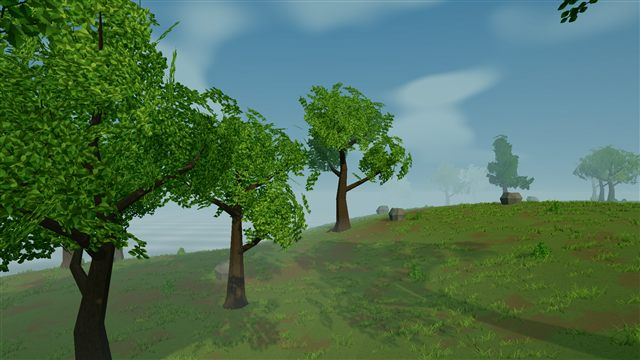
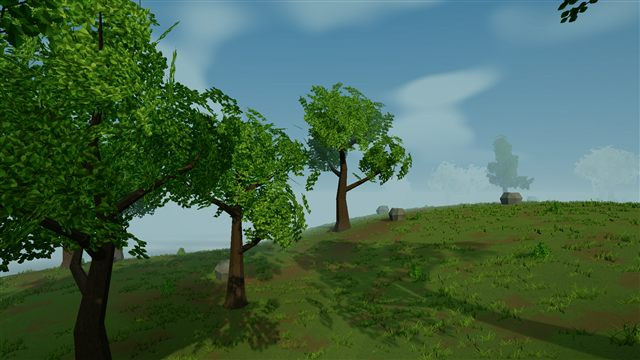
Publish lighting study 04 with canopy and shelter comparisons

diff --git a/index.html b/index.html
@@ -1,16 +1,16 @@
 <!doctype html>
-<html lang="en"><head><meta charset="utf-8"><meta name="viewport" content="width=device-width, initial-scale=1"><meta name="theme-color" content="#101a15"><meta name="description" content="Ten in-engine forest, coast, and shelter screenshots from the Survival prototype."><title>Survival - Environment Gallery</title><link rel="stylesheet" href="style.css?v=3"></head>
-<body><header class="wrap masthead"><a class="brand" href="index.html">SURVIVAL <span>DEVELOPMENT GALLERY</span></a><span class="edition">ENVIRONMENT STUDY 03</span></header>
-<main class="wrap"><section class="intro"><p class="eyebrow">FOREST / COAST / SHELTER</p><h1>A world in different light.</h1><p class="lead">Ten fresh in-engine views: branch-led tree forms, irregular rocks, finer ground cover, and textured timber in varied light.</p><p class="hint">Choose a view. Tap its image for the full-resolution screenshot. The canopy page also includes the earlier build for comparison.</p></section>
-<section class="gallery" aria-label="Environment screenshots"><a class="card" href="clearing.html"><img src="images/clearing-thumb.jpg?v=3" width="640" height="360" alt="The ordinary player camera with branching tree families, finer grass, and irregular rocks." fetchpriority="high"><div class="card-body"><span class="number">DAY / PLAYABLE VIEW</span><h2>Through the clearing</h2><p>The ordinary player camera with branching tree families, finer grass, and irregular rocks.</p><span class="open">Open view <span aria-hidden="true">&#8599;</span></span></div></a>
-<a class="card" href="canopy.html"><img src="images/canopy-thumb.jpg?v=3" width="640" height="360" alt="Branch-led crowns and darker canopy interiors. Earlier captures below show the progression." loading="lazy"><div class="card-body"><span class="number">DAY / CANOPY COMPARISON</span><h2>Under the branches</h2><p>Branch-led crowns and darker canopy interiors. Earlier captures below show the progression.</p><span class="open">Open view <span aria-hidden="true">&#8599;</span></span></div></a>
-<a class="card" href="grass.html"><img src="images/grass-thumb.jpg?v=3" width="640" height="360" alt="Shorter fine grass with occasional taller accents, sparse flowers, and coherent ground patches." loading="lazy"><div class="card-body"><span class="number">DAY / GROUND DETAIL</span><h2>At meadow height</h2><p>Shorter fine grass with occasional taller accents, sparse flowers, and coherent ground patches.</p><span class="open">Open view <span aria-hidden="true">&#8599;</span></span></div></a>
-<a class="card" href="coast.html"><img src="images/coast-thumb.jpg?v=3" width="640" height="360" alt="The shoreline and a simple ripple-lighting water study. Water remains visual only." loading="lazy"><div class="card-body"><span class="number">DAY / COAST</span><h2>Where the meadow meets water</h2><p>The shoreline and a simple ripple-lighting water study. Water remains visual only.</p><span class="open">Open view <span aria-hidden="true">&#8599;</span></span></div></a>
-<a class="card" href="ridge.html"><img src="images/ridge-thumb.jpg?v=3" width="640" height="360" alt="A wide coastal panorama with mixed tree silhouettes and distant mist." loading="lazy"><div class="card-body"><span class="number">DAY / LANDSCAPE</span><h2>Across the forest edge</h2><p>A wide coastal panorama with mixed tree silhouettes and distant mist.</p><span class="open">Open view <span aria-hidden="true">&#8599;</span></span></div></a>
-<a class="card" href="dawn.html"><img src="images/dawn-thumb.jpg?v=3" width="640" height="360" alt="A curated dawn preset: low warm sunlight, cooler ambient light, and heavier mist." loading="lazy"><div class="card-body"><span class="number">DAWN / LIGHTING STUDY</span><h2>Cool morning mist</h2><p>A curated dawn preset: low warm sunlight, cooler ambient light, and heavier mist.</p><span class="open">Open view <span aria-hidden="true">&#8599;</span></span></div></a>
-<a class="card" href="golden.html"><img src="images/golden-thumb.jpg?v=3" width="640" height="360" alt="A warm low-sun preset for checking foliage volume and long shadows." loading="lazy"><div class="card-body"><span class="number">GOLDEN HOUR / LIGHTING STUDY</span><h2>Late light in the meadow</h2><p>A warm low-sun preset for checking foliage volume and long shadows.</p><span class="open">Open view <span aria-hidden="true">&#8599;</span></span></div></a>
-<a class="card" href="overcast.html"><img src="images/overcast-thumb.jpg?v=3" width="640" height="360" alt="A softer cool-light preset that exposes silhouettes and ground detail without strong sunlight." loading="lazy"><div class="card-body"><span class="number">OVERCAST / LIGHTING STUDY</span><h2>A quieter forest path</h2><p>A softer cool-light preset that exposes silhouettes and ground detail without strong sunlight.</p><span class="open">Open view <span aria-hidden="true">&#8599;</span></span></div></a>
-<a class="card" href="shelter.html"><img src="images/shelter-thumb.jpg?v=3" width="640" height="360" alt="A staged fixture built from the existing foundation, floor, wall, doorway, and flat-roof pieces." loading="lazy"><div class="card-body"><span class="number">DAY / CONSTRUCTION STUDY</span><h2>A shelter in the clearing</h2><p>A staged fixture built from the existing foundation, floor, wall, doorway, and flat-roof pieces.</p><span class="open">Open view <span aria-hidden="true">&#8599;</span></span></div></a>
-<a class="card" href="dusk.html"><img src="images/dusk-thumb.jpg?v=3" width="640" height="360" alt="The same prototype pieces at dusk with a capture-only ember and point-light fixture. Campfire gameplay is not implemented." loading="lazy"><div class="card-body"><span class="number">DUSK / LOCAL LIGHT STUDY</span><h2>Warmth beside the shelter</h2><p>The same prototype pieces at dusk with a capture-only ember and point-light fixture. Campfire gameplay is not implemented.</p><span class="open">Open view <span aria-hidden="true">&#8599;</span></span></div></a></section>
+<html lang="en"><head><meta charset="utf-8"><meta name="viewport" content="width=device-width, initial-scale=1"><meta name="theme-color" content="#101a15"><meta name="description" content="Ten in-engine forest, coast, and shelter screenshots from the Survival prototype."><title>Survival - Environment Gallery</title><link rel="stylesheet" href="style.css?v=4"></head>
+<body><header class="wrap masthead"><a class="brand" href="index.html">SURVIVAL <span>DEVELOPMENT GALLERY</span></a><span class="edition">ENVIRONMENT STUDY 04</span></header>
+<main class="wrap"><section class="intro"><p class="eyebrow">FOREST / COAST / SHELTER</p><h1>A world in different light.</h1><p class="lead">Ten fresh in-engine views with clearer sunlight and shade, restrained foliage backlighting, and less foreground mist. The same procedural assets show the lighting changes.</p><p class="hint">Choose a view. Tap its image for the full-resolution screenshot. The canopy and shelter pages include views from before the lighting pass. Contact occlusion is off in these default views.</p></section>
+<section class="gallery" aria-label="Environment screenshots"><a class="card" href="clearing.html"><img src="images/clearing-thumb.jpg?v=4" width="640" height="360" alt="The ordinary player camera with branching tree families, finer grass, and irregular rocks." fetchpriority="high"><div class="card-body"><span class="number">DAY / PLAYABLE VIEW</span><h2>Through the clearing</h2><p>The ordinary player camera with branching tree families, finer grass, and irregular rocks.</p><span class="open">Open view <span aria-hidden="true">&#8599;</span></span></div></a>
+<a class="card" href="canopy.html"><img src="images/canopy-thumb.jpg?v=4" width="640" height="360" alt="Rebalanced sunlight, cool shade, and cached canopy skylight on the ground. Earlier captures below show the progression." loading="lazy"><div class="card-body"><span class="number">DAY / CANOPY COMPARISON</span><h2>Under the branches</h2><p>Rebalanced sunlight, cool shade, and cached canopy skylight on the ground. Earlier captures below show the progression.</p><span class="open">Open view <span aria-hidden="true">&#8599;</span></span></div></a>
+<a class="card" href="grass.html"><img src="images/grass-thumb.jpg?v=4" width="640" height="360" alt="Shorter fine grass with occasional taller accents, sparse flowers, and coherent ground patches." loading="lazy"><div class="card-body"><span class="number">DAY / GROUND DETAIL</span><h2>At meadow height</h2><p>Shorter fine grass with occasional taller accents, sparse flowers, and coherent ground patches.</p><span class="open">Open view <span aria-hidden="true">&#8599;</span></span></div></a>
+<a class="card" href="coast.html"><img src="images/coast-thumb.jpg?v=4" width="640" height="360" alt="The shoreline and a simple ripple-lighting water study. Water remains visual only." loading="lazy"><div class="card-body"><span class="number">DAY / COAST</span><h2>Where the meadow meets water</h2><p>The shoreline and a simple ripple-lighting water study. Water remains visual only.</p><span class="open">Open view <span aria-hidden="true">&#8599;</span></span></div></a>
+<a class="card" href="ridge.html"><img src="images/ridge-thumb.jpg?v=4" width="640" height="360" alt="A wide coastal panorama with mixed tree silhouettes and distant mist." loading="lazy"><div class="card-body"><span class="number">DAY / LANDSCAPE</span><h2>Across the forest edge</h2><p>A wide coastal panorama with mixed tree silhouettes and distant mist.</p><span class="open">Open view <span aria-hidden="true">&#8599;</span></span></div></a>
+<a class="card" href="dawn.html"><img src="images/dawn-thumb.jpg?v=4" width="640" height="360" alt="A curated dawn preset: low warm sunlight, cooler ambient light, and heavier mist." loading="lazy"><div class="card-body"><span class="number">DAWN / LIGHTING STUDY</span><h2>Cool morning mist</h2><p>A curated dawn preset: low warm sunlight, cooler ambient light, and heavier mist.</p><span class="open">Open view <span aria-hidden="true">&#8599;</span></span></div></a>
+<a class="card" href="golden.html"><img src="images/golden-thumb.jpg?v=4" width="640" height="360" alt="A warm low-sun preset for checking foliage volume and long shadows." loading="lazy"><div class="card-body"><span class="number">GOLDEN HOUR / LIGHTING STUDY</span><h2>Late light in the meadow</h2><p>A warm low-sun preset for checking foliage volume and long shadows.</p><span class="open">Open view <span aria-hidden="true">&#8599;</span></span></div></a>
+<a class="card" href="overcast.html"><img src="images/overcast-thumb.jpg?v=4" width="640" height="360" alt="A softer cool-light preset that exposes silhouettes and ground detail without strong sunlight." loading="lazy"><div class="card-body"><span class="number">OVERCAST / LIGHTING STUDY</span><h2>A quieter forest path</h2><p>A softer cool-light preset that exposes silhouettes and ground detail without strong sunlight.</p><span class="open">Open view <span aria-hidden="true">&#8599;</span></span></div></a>
+<a class="card" href="shelter.html"><img src="images/shelter-thumb.jpg?v=4" width="640" height="360" alt="A staged fixture built from the existing foundation, floor, wall, doorway, and flat-roof pieces." loading="lazy"><div class="card-body"><span class="number">DAY / CONSTRUCTION STUDY</span><h2>A shelter in the clearing</h2><p>A staged fixture built from the existing foundation, floor, wall, doorway, and flat-roof pieces.</p><span class="open">Open view <span aria-hidden="true">&#8599;</span></span></div></a>
+<a class="card" href="dusk.html"><img src="images/dusk-thumb.jpg?v=4" width="640" height="360" alt="The same prototype pieces at dusk with a capture-only ember and point-light fixture. Campfire gameplay is not implemented." loading="lazy"><div class="card-body"><span class="number">DUSK / LOCAL LIGHT STUDY</span><h2>Warmth beside the shelter</h2><p>The same prototype pieces at dusk with a capture-only ember and point-light fixture. Campfire gameplay is not implemented.</p><span class="open">Open view <span aria-hidden="true">&#8599;</span></span></div></a></section>
 <aside class="note"><strong>A work in progress.</strong> Original procedural assets, rendered in the game. Dawn, golden-hour, overcast, and dusk images use curated art presets; they do not demonstrate a day/night or weather cycle. Shelter scenes are staged from existing build pieces, and the dusk fire is a lighting fixture. This is a screenshot gallery, not a playable mobile game.</aside></main>
-<footer class="wrap footer">SURVIVAL <span>Environment study 03 - ten views</span></footer></body></html>
+<footer class="wrap footer">SURVIVAL <span>Environment study 04 - ten views</span></footer></body></html>

diff --git a/canopy.html b/canopy.html
@@ -1,7 +1,7 @@
 <!doctype html>
-<html lang="en"><head><meta charset="utf-8"><meta name="viewport" content="width=device-width, initial-scale=1"><meta name="theme-color" content="#101a15"><title>Under the branches - Survival Gallery</title><link rel="stylesheet" href="style.css?v=3"></head>
-<body><header class="wrap masthead"><a class="brand" href="index.html">SURVIVAL <span>DEVELOPMENT GALLERY</span></a><span class="edition">ENVIRONMENT STUDY 03</span></header>
-<main class="wrap"><section class="view-header"><a class="back" href="index.html">&#8592; All views</a><p class="eyebrow">DAY / CANOPY COMPARISON</p><h1>Under the branches</h1><p>Branch-led crowns and darker canopy interiors. Earlier captures below show the progression.</p></section>
-<figure class="image-frame"><a href="images/canopy-full.png?v=3"><img src="images/canopy.jpg?v=3" width="1280" height="720" alt="Branch-led crowns and darker canopy interiors. Earlier captures below show the progression." fetchpriority="high"></a><figcaption>Captured in Unity at 1920 &#215; 1080. Tap the image for the original PNG. Lighting variants are curated art presets, not a running day/night or weather system.</figcaption></figure><section class="view-header"><h2>Forest study 02</h2><p>The same camera before this tree, rock, and ground-cover pass.</p></section><figure class="image-frame"><a href="images/study02-canopy-full.png"><img src="images/study02-canopy.jpg" width="1280" height="720" alt="Study 02 canopy capture before the branch-led tree family changes" loading="lazy"></a><figcaption>Study 02. Tap for the original screenshot.</figcaption></figure><section class="view-header"><h2>Original procedural study</h2><p>An earlier build using the same camera position, not another current lighting preset.</p></section><figure class="image-frame"><a href="images/before-canopy-full.png"><img src="images/before-canopy.jpg" width="1280" height="720" alt="Earlier canopy study with repeated branch shapes and larger leaf patterns" loading="lazy"></a><figcaption>Original study. Tap for the original screenshot.</figcaption></figure>
+<html lang="en"><head><meta charset="utf-8"><meta name="viewport" content="width=device-width, initial-scale=1"><meta name="theme-color" content="#101a15"><title>Under the branches - Survival Gallery</title><link rel="stylesheet" href="style.css?v=4"></head>
+<body><header class="wrap masthead"><a class="brand" href="index.html">SURVIVAL <span>DEVELOPMENT GALLERY</span></a><span class="edition">ENVIRONMENT STUDY 04</span></header>
+<main class="wrap"><section class="view-header"><a class="back" href="index.html">&#8592; All views</a><p class="eyebrow">DAY / CANOPY COMPARISON</p><h1>Under the branches</h1><p>Rebalanced sunlight, cool shade, and cached canopy skylight on the ground. Earlier captures below show the progression.</p></section>
+<figure class="image-frame"><a href="images/canopy-full.png?v=4"><img src="images/canopy.jpg?v=4" width="1280" height="720" alt="Rebalanced sunlight, cool shade, and cached canopy skylight on the ground. Earlier captures below show the progression." fetchpriority="high"></a><figcaption>Captured in Unity at 1920 &#215; 1080. Tap the image for the original PNG. Lighting variants are curated art presets, not a running day/night or weather system.</figcaption></figure><section class="view-header"><h2>Before the lighting pass</h2><p>Study 03: the same camera and procedural assets before the sunlight, ambient shading, and fog changes. Wind can differ between captures.</p></section><figure class="image-frame"><a href="images/study03-canopy-full.png"><img src="images/study03-canopy.jpg" width="1280" height="720" alt="Study 03 before the lighting pass" loading="lazy"></a><figcaption>Study 03. Tap for the original screenshot.</figcaption></figure><section class="view-header"><h2>Forest study 02</h2><p>The same camera before the branch-led tree, rock, and ground-cover changes.</p></section><figure class="image-frame"><a href="images/study02-canopy-full.png"><img src="images/study02-canopy.jpg" width="1280" height="720" alt="Study 02 canopy capture before the branch-led tree family changes" loading="lazy"></a><figcaption>Study 02. Tap for the original screenshot.</figcaption></figure><section class="view-header"><h2>Original procedural study</h2><p>An earlier build using the same camera position, not another current lighting preset.</p></section><figure class="image-frame"><a href="images/before-canopy-full.png"><img src="images/before-canopy.jpg" width="1280" height="720" alt="Earlier canopy study with repeated branch shapes and larger leaf patterns" loading="lazy"></a><figcaption>Original study. Tap for the original screenshot.</figcaption></figure>
 <nav class="view-nav" aria-label="Screenshot navigation"><a href="clearing.html">&#8592; Through the clearing</a><a class="next" href="grass.html">At meadow height &#8594;</a></nav></main>
 <footer class="wrap footer">SURVIVAL <span>In-engine development captures</span></footer></body></html>

diff --git a/shelter.html b/shelter.html
@@ -1,7 +1,7 @@
 <!doctype html>
-<html lang="en"><head><meta charset="utf-8"><meta name="viewport" content="width=device-width, initial-scale=1"><meta name="theme-color" content="#101a15"><title>A shelter in the clearing - Survival Gallery</title><link rel="stylesheet" href="style.css?v=3"></head>
-<body><header class="wrap masthead"><a class="brand" href="index.html">SURVIVAL <span>DEVELOPMENT GALLERY</span></a><span class="edition">ENVIRONMENT STUDY 03</span></header>
+<html lang="en"><head><meta charset="utf-8"><meta name="viewport" content="width=device-width, initial-scale=1"><meta name="theme-color" content="#101a15"><title>A shelter in the clearing - Survival Gallery</title><link rel="stylesheet" href="style.css?v=4"></head>
+<body><header class="wrap masthead"><a class="brand" href="index.html">SURVIVAL <span>DEVELOPMENT GALLERY</span></a><span class="edition">ENVIRONMENT STUDY 04</span></header>
 <main class="wrap"><section class="view-header"><a class="back" href="index.html">&#8592; All views</a><p class="eyebrow">DAY / CONSTRUCTION STUDY</p><h1>A shelter in the clearing</h1><p>A staged fixture built from the existing foundation, floor, wall, doorway, and flat-roof pieces.</p></section>
-<figure class="image-frame"><a href="images/shelter-full.png?v=3"><img src="images/shelter.jpg?v=3" width="1280" height="720" alt="A staged fixture built from the existing foundation, floor, wall, doorway, and flat-roof pieces." fetchpriority="high"></a><figcaption>Captured in Unity at 1920 &#215; 1080. Tap the image for the original PNG. Lighting variants are curated art presets, not a running day/night or weather system.</figcaption></figure>
+<figure class="image-frame"><a href="images/shelter-full.png?v=4"><img src="images/shelter.jpg?v=4" width="1280" height="720" alt="A staged fixture built from the existing foundation, floor, wall, doorway, and flat-roof pieces." fetchpriority="high"></a><figcaption>Captured in Unity at 1920 &#215; 1080. Tap the image for the original PNG. Lighting variants are curated art presets, not a running day/night or weather system.</figcaption></figure><section class="view-header"><h2>Before the lighting pass</h2><p>Study 03: the same camera and procedural assets before the sunlight, ambient shading, and fog changes. Wind can differ between captures.</p></section><figure class="image-frame"><a href="images/study03-shelter-full.png"><img src="images/study03-shelter.jpg" width="1280" height="720" alt="Study 03 before the lighting pass" loading="lazy"></a><figcaption>Study 03. Tap for the original screenshot.</figcaption></figure>
 <nav class="view-nav" aria-label="Screenshot navigation"><a href="overcast.html">&#8592; A quieter forest path</a><a class="next" href="dusk.html">Warmth beside the shelter &#8594;</a></nav></main>
 <footer class="wrap footer">SURVIVAL <span>In-engine development captures</span></footer></body></html>

diff --git a/dusk.html b/dusk.html
@@ -1,7 +1,7 @@
 <!doctype html>
-<html lang="en"><head><meta charset="utf-8"><meta name="viewport" content="width=device-width, initial-scale=1"><meta name="theme-color" content="#101a15"><title>Warmth beside the shelter - Survival Gallery</title><link rel="stylesheet" href="style.css?v=3"></head>
-<body><header class="wrap masthead"><a class="brand" href="index.html">SURVIVAL <span>DEVELOPMENT GALLERY</span></a><span class="edition">ENVIRONMENT STUDY 03</span></header>
+<html lang="en"><head><meta charset="utf-8"><meta name="viewport" content="width=device-width, initial-scale=1"><meta name="theme-color" content="#101a15"><title>Warmth beside the shelter - Survival Gallery</title><link rel="stylesheet" href="style.css?v=4"></head>
+<body><header class="wrap masthead"><a class="brand" href="index.html">SURVIVAL <span>DEVELOPMENT GALLERY</span></a><span class="edition">ENVIRONMENT STUDY 04</span></header>
 <main class="wrap"><section class="view-header"><a class="back" href="index.html">&#8592; All views</a><p class="eyebrow">DUSK / LOCAL LIGHT STUDY</p><h1>Warmth beside the shelter</h1><p>The same prototype pieces at dusk with a capture-only ember and point-light fixture. Campfire gameplay is not implemented.</p></section>
-<figure class="image-frame"><a href="images/dusk-full.png?v=3"><img src="images/dusk.jpg?v=3" width="1280" height="720" alt="The same prototype pieces at dusk with a capture-only ember and point-light fixture. Campfire gameplay is not implemented." fetchpriority="high"></a><figcaption>Captured in Unity at 1920 &#215; 1080. Tap the image for the original PNG. Lighting variants are curated art presets, not a running day/night or weather system.</figcaption></figure>
+<figure class="image-frame"><a href="images/dusk-full.png?v=4"><img src="images/dusk.jpg?v=4" width="1280" height="720" alt="The same prototype pieces at dusk with a capture-only ember and point-light fixture. Campfire gameplay is not implemented." fetchpriority="high"></a><figcaption>Captured in Unity at 1920 &#215; 1080. Tap the image for the original PNG. Lighting variants are curated art presets, not a running day/night or weather system.</figcaption></figure>
 <nav class="view-nav" aria-label="Screenshot navigation"><a href="shelter.html">&#8592; A shelter in the clearing</a><a class="next" href="clearing.html">Through the clearing &#8594;</a></nav></main>
 <footer class="wrap footer">SURVIVAL <span>In-engine development captures</span></footer></body></html>

diff --git a/overcast.html b/overcast.html
@@ -1,7 +1,7 @@
 <!doctype html>
-<html lang="en"><head><meta charset="utf-8"><meta name="viewport" content="width=device-width, initial-scale=1"><meta name="theme-color" content="#101a15"><title>A quieter forest path - Survival Gallery</title><link rel="stylesheet" href="style.css?v=3"></head>
-<body><header class="wrap masthead"><a class="brand" href="index.html">SURVIVAL <span>DEVELOPMENT GALLERY</span></a><span class="edition">ENVIRONMENT STUDY 03</span></header>
+<html lang="en"><head><meta charset="utf-8"><meta name="viewport" content="width=device-width, initial-scale=1"><meta name="theme-color" content="#101a15"><title>A quieter forest path - Survival Gallery</title><link rel="stylesheet" href="style.css?v=4"></head>
+<body><header class="wrap masthead"><a class="brand" href="index.html">SURVIVAL <span>DEVELOPMENT GALLERY</span></a><span class="edition">ENVIRONMENT STUDY 04</span></header>
 <main class="wrap"><section class="view-header"><a class="back" href="index.html">&#8592; All views</a><p class="eyebrow">OVERCAST / LIGHTING STUDY</p><h1>A quieter forest path</h1><p>A softer cool-light preset that exposes silhouettes and ground detail without strong sunlight.</p></section>
-<figure class="image-frame"><a href="images/overcast-full.png?v=3"><img src="images/overcast.jpg?v=3" width="1280" height="720" alt="A softer cool-light preset that exposes silhouettes and ground detail without strong sunlight." fetchpriority="high"></a><figcaption>Captured in Unity at 1920 &#215; 1080. Tap the image for the original PNG. Lighting variants are curated art presets, not a running day/night or weather system.</figcaption></figure>
+<figure class="image-frame"><a href="images/overcast-full.png?v=4"><img src="images/overcast.jpg?v=4" width="1280" height="720" alt="A softer cool-light preset that exposes silhouettes and ground detail without strong sunlight." fetchpriority="high"></a><figcaption>Captured in Unity at 1920 &#215; 1080. Tap the image for the original PNG. Lighting variants are curated art presets, not a running day/night or weather system.</figcaption></figure>
 <nav class="view-nav" aria-label="Screenshot navigation"><a href="golden.html">&#8592; Late light in the meadow</a><a class="next" href="shelter.html">A shelter in the clearing &#8594;</a></nav></main>
 <footer class="wrap footer">SURVIVAL <span>In-engine development captures</span></footer></body></html>

diff --git a/clearing.html b/clearing.html
@@ -1,7 +1,7 @@
 <!doctype html>
-<html lang="en"><head><meta charset="utf-8"><meta name="viewport" content="width=device-width, initial-scale=1"><meta name="theme-color" content="#101a15"><title>Through the clearing - Survival Gallery</title><link rel="stylesheet" href="style.css?v=3"></head>
-<body><header class="wrap masthead"><a class="brand" href="index.html">SURVIVAL <span>DEVELOPMENT GALLERY</span></a><span class="edition">ENVIRONMENT STUDY 03</span></header>
+<html lang="en"><head><meta charset="utf-8"><meta name="viewport" content="width=device-width, initial-scale=1"><meta name="theme-color" content="#101a15"><title>Through the clearing - Survival Gallery</title><link rel="stylesheet" href="style.css?v=4"></head>
+<body><header class="wrap masthead"><a class="brand" href="index.html">SURVIVAL <span>DEVELOPMENT GALLERY</span></a><span class="edition">ENVIRONMENT STUDY 04</span></header>
 <main class="wrap"><section class="view-header"><a class="back" href="index.html">&#8592; All views</a><p class="eyebrow">DAY / PLAYABLE VIEW</p><h1>Through the clearing</h1><p>The ordinary player camera with branching tree families, finer grass, and irregular rocks.</p></section>
-<figure class="image-frame"><a href="images/clearing-full.png?v=3"><img src="images/clearing.jpg?v=3" width="1280" height="720" alt="The ordinary player camera with branching tree families, finer grass, and irregular rocks." fetchpriority="high"></a><figcaption>Captured in Unity at 1920 &#215; 1080. Tap the image for the original PNG. Lighting variants are curated art presets, not a running day/night or weather system.</figcaption></figure>
+<figure class="image-frame"><a href="images/clearing-full.png?v=4"><img src="images/clearing.jpg?v=4" width="1280" height="720" alt="The ordinary player camera with branching tree families, finer grass, and irregular rocks." fetchpriority="high"></a><figcaption>Captured in Unity at 1920 &#215; 1080. Tap the image for the original PNG. Lighting variants are curated art presets, not a running day/night or weather system.</figcaption></figure>
 <nav class="view-nav" aria-label="Screenshot navigation"><a href="dusk.html">&#8592; Warmth beside the shelter</a><a class="next" href="canopy.html">Under the branches &#8594;</a></nav></main>
 <footer class="wrap footer">SURVIVAL <span>In-engine development captures</span></footer></body></html>

diff --git a/grass.html b/grass.html
@@ -1,7 +1,7 @@
 <!doctype html>
-<html lang="en"><head><meta charset="utf-8"><meta name="viewport" content="width=device-width, initial-scale=1"><meta name="theme-color" content="#101a15"><title>At meadow height - Survival Gallery</title><link rel="stylesheet" href="style.css?v=3"></head>
-<body><header class="wrap masthead"><a class="brand" href="index.html">SURVIVAL <span>DEVELOPMENT GALLERY</span></a><span class="edition">ENVIRONMENT STUDY 03</span></header>
+<html lang="en"><head><meta charset="utf-8"><meta name="viewport" content="width=device-width, initial-scale=1"><meta name="theme-color" content="#101a15"><title>At meadow height - Survival Gallery</title><link rel="stylesheet" href="style.css?v=4"></head>
+<body><header class="wrap masthead"><a class="brand" href="index.html">SURVIVAL <span>DEVELOPMENT GALLERY</span></a><span class="edition">ENVIRONMENT STUDY 04</span></header>
 <main class="wrap"><section class="view-header"><a class="back" href="index.html">&#8592; All views</a><p class="eyebrow">DAY / GROUND DETAIL</p><h1>At meadow height</h1><p>Shorter fine grass with occasional taller accents, sparse flowers, and coherent ground patches.</p></section>
-<figure class="image-frame"><a href="images/grass-full.png?v=3"><img src="images/grass.jpg?v=3" width="1280" height="720" alt="Shorter fine grass with occasional taller accents, sparse flowers, and coherent ground patches." fetchpriority="high"></a><figcaption>Captured in Unity at 1920 &#215; 1080. Tap the image for the original PNG. Lighting variants are curated art presets, not a running day/night or weather system.</figcaption></figure>
+<figure class="image-frame"><a href="images/grass-full.png?v=4"><img src="images/grass.jpg?v=4" width="1280" height="720" alt="Shorter fine grass with occasional taller accents, sparse flowers, and coherent ground patches." fetchpriority="high"></a><figcaption>Captured in Unity at 1920 &#215; 1080. Tap the image for the original PNG. Lighting variants are curated art presets, not a running day/night or weather system.</figcaption></figure>
 <nav class="view-nav" aria-label="Screenshot navigation"><a href="canopy.html">&#8592; Under the branches</a><a class="next" href="coast.html">Where the meadow meets water &#8594;</a></nav></main>
 <footer class="wrap footer">SURVIVAL <span>In-engine development captures</span></footer></body></html>

diff --git a/coast.html b/coast.html
@@ -1,7 +1,7 @@
 <!doctype html>
-<html lang="en"><head><meta charset="utf-8"><meta name="viewport" content="width=device-width, initial-scale=1"><meta name="theme-color" content="#101a15"><title>Where the meadow meets water - Survival Gallery</title><link rel="stylesheet" href="style.css?v=3"></head>
-<body><header class="wrap masthead"><a class="brand" href="index.html">SURVIVAL <span>DEVELOPMENT GALLERY</span></a><span class="edition">ENVIRONMENT STUDY 03</span></header>
+<html lang="en"><head><meta charset="utf-8"><meta name="viewport" content="width=device-width, initial-scale=1"><meta name="theme-color" content="#101a15"><title>Where the meadow meets water - Survival Gallery</title><link rel="stylesheet" href="style.css?v=4"></head>
+<body><header class="wrap masthead"><a class="brand" href="index.html">SURVIVAL <span>DEVELOPMENT GALLERY</span></a><span class="edition">ENVIRONMENT STUDY 04</span></header>
 <main class="wrap"><section class="view-header"><a class="back" href="index.html">&#8592; All views</a><p class="eyebrow">DAY / COAST</p><h1>Where the meadow meets water</h1><p>The shoreline and a simple ripple-lighting water study. Water remains visual only.</p></section>
-<figure class="image-frame"><a href="images/coast-full.png?v=3"><img src="images/coast.jpg?v=3" width="1280" height="720" alt="The shoreline and a simple ripple-lighting water study. Water remains visual only." fetchpriority="high"></a><figcaption>Captured in Unity at 1920 &#215; 1080. Tap the image for the original PNG. Lighting variants are curated art presets, not a running day/night or weather system.</figcaption></figure>
+<figure class="image-frame"><a href="images/coast-full.png?v=4"><img src="images/coast.jpg?v=4" width="1280" height="720" alt="The shoreline and a simple ripple-lighting water study. Water remains visual only." fetchpriority="high"></a><figcaption>Captured in Unity at 1920 &#215; 1080. Tap the image for the original PNG. Lighting variants are curated art presets, not a running day/night or weather system.</figcaption></figure>
 <nav class="view-nav" aria-label="Screenshot navigation"><a href="grass.html">&#8592; At meadow height</a><a class="next" href="ridge.html">Across the forest edge &#8594;</a></nav></main>
 <footer class="wrap footer">SURVIVAL <span>In-engine development captures</span></footer></body></html>

diff --git a/dawn.html b/dawn.html
@@ -1,7 +1,7 @@
 <!doctype html>
-<html lang="en"><head><meta charset="utf-8"><meta name="viewport" content="width=device-width, initial-scale=1"><meta name="theme-color" content="#101a15"><title>Cool morning mist - Survival Gallery</title><link rel="stylesheet" href="style.css?v=3"></head>
-<body><header class="wrap masthead"><a class="brand" href="index.html">SURVIVAL <span>DEVELOPMENT GALLERY</span></a><span class="edition">ENVIRONMENT STUDY 03</span></header>
+<html lang="en"><head><meta charset="utf-8"><meta name="viewport" content="width=device-width, initial-scale=1"><meta name="theme-color" content="#101a15"><title>Cool morning mist - Survival Gallery</title><link rel="stylesheet" href="style.css?v=4"></head>
+<body><header class="wrap masthead"><a class="brand" href="index.html">SURVIVAL <span>DEVELOPMENT GALLERY</span></a><span class="edition">ENVIRONMENT STUDY 04</span></header>
 <main class="wrap"><section class="view-header"><a class="back" href="index.html">&#8592; All views</a><p class="eyebrow">DAWN / LIGHTING STUDY</p><h1>Cool morning mist</h1><p>A curated dawn preset: low warm sunlight, cooler ambient light, and heavier mist.</p></section>
-<figure class="image-frame"><a href="images/dawn-full.png?v=3"><img src="images/dawn.jpg?v=3" width="1280" height="720" alt="A curated dawn preset: low warm sunlight, cooler ambient light, and heavier mist." fetchpriority="high"></a><figcaption>Captured in Unity at 1920 &#215; 1080. Tap the image for the original PNG. Lighting variants are curated art presets, not a running day/night or weather system.</figcaption></figure>
+<figure class="image-frame"><a href="images/dawn-full.png?v=4"><img src="images/dawn.jpg?v=4" width="1280" height="720" alt="A curated dawn preset: low warm sunlight, cooler ambient light, and heavier mist." fetchpriority="high"></a><figcaption>Captured in Unity at 1920 &#215; 1080. Tap the image for the original PNG. Lighting variants are curated art presets, not a running day/night or weather system.</figcaption></figure>
 <nav class="view-nav" aria-label="Screenshot navigation"><a href="ridge.html">&#8592; Across the forest edge</a><a class="next" href="golden.html">Late light in the meadow &#8594;</a></nav></main>
 <footer class="wrap footer">SURVIVAL <span>In-engine development captures</span></footer></body></html>

diff --git a/golden.html b/golden.html
@@ -1,7 +1,7 @@
 <!doctype html>
-<html lang="en"><head><meta charset="utf-8"><meta name="viewport" content="width=device-width, initial-scale=1"><meta name="theme-color" content="#101a15"><title>Late light in the meadow - Survival Gallery</title><link rel="stylesheet" href="style.css?v=3"></head>
-<body><header class="wrap masthead"><a class="brand" href="index.html">SURVIVAL <span>DEVELOPMENT GALLERY</span></a><span class="edition">ENVIRONMENT STUDY 03</span></header>
+<html lang="en"><head><meta charset="utf-8"><meta name="viewport" content="width=device-width, initial-scale=1"><meta name="theme-color" content="#101a15"><title>Late light in the meadow - Survival Gallery</title><link rel="stylesheet" href="style.css?v=4"></head>
+<body><header class="wrap masthead"><a class="brand" href="index.html">SURVIVAL <span>DEVELOPMENT GALLERY</span></a><span class="edition">ENVIRONMENT STUDY 04</span></header>
 <main class="wrap"><section class="view-header"><a class="back" href="index.html">&#8592; All views</a><p class="eyebrow">GOLDEN HOUR / LIGHTING STUDY</p><h1>Late light in the meadow</h1><p>A warm low-sun preset for checking foliage volume and long shadows.</p></section>
-<figure class="image-frame"><a href="images/golden-full.png?v=3"><img src="images/golden.jpg?v=3" width="1280" height="720" alt="A warm low-sun preset for checking foliage volume and long shadows." fetchpriority="high"></a><figcaption>Captured in Unity at 1920 &#215; 1080. Tap the image for the original PNG. Lighting variants are curated art presets, not a running day/night or weather system.</figcaption></figure>
+<figure class="image-frame"><a href="images/golden-full.png?v=4"><img src="images/golden.jpg?v=4" width="1280" height="720" alt="A warm low-sun preset for checking foliage volume and long shadows." fetchpriority="high"></a><figcaption>Captured in Unity at 1920 &#215; 1080. Tap the image for the original PNG. Lighting variants are curated art presets, not a running day/night or weather system.</figcaption></figure>
 <nav class="view-nav" aria-label="Screenshot navigation"><a href="dawn.html">&#8592; Cool morning mist</a><a class="next" href="overcast.html">A quieter forest path &#8594;</a></nav></main>
 <footer class="wrap footer">SURVIVAL <span>In-engine development captures</span></footer></body></html>

diff --git a/ridge.html b/ridge.html
@@ -1,7 +1,7 @@
 <!doctype html>
-<html lang="en"><head><meta charset="utf-8"><meta name="viewport" content="width=device-width, initial-scale=1"><meta name="theme-color" content="#101a15"><title>Across the forest edge - Survival Gallery</title><link rel="stylesheet" href="style.css?v=3"></head>
-<body><header class="wrap masthead"><a class="brand" href="index.html">SURVIVAL <span>DEVELOPMENT GALLERY</span></a><span class="edition">ENVIRONMENT STUDY 03</span></header>
+<html lang="en"><head><meta charset="utf-8"><meta name="viewport" content="width=device-width, initial-scale=1"><meta name="theme-color" content="#101a15"><title>Across the forest edge - Survival Gallery</title><link rel="stylesheet" href="style.css?v=4"></head>
+<body><header class="wrap masthead"><a class="brand" href="index.html">SURVIVAL <span>DEVELOPMENT GALLERY</span></a><span class="edition">ENVIRONMENT STUDY 04</span></header>
 <main class="wrap"><section class="view-header"><a class="back" href="index.html">&#8592; All views</a><p class="eyebrow">DAY / LANDSCAPE</p><h1>Across the forest edge</h1><p>A wide coastal panorama with mixed tree silhouettes and distant mist.</p></section>
-<figure class="image-frame"><a href="images/ridge-full.png?v=3"><img src="images/ridge.jpg?v=3" width="1280" height="720" alt="A wide coastal panorama with mixed tree silhouettes and distant mist." fetchpriority="high"></a><figcaption>Captured in Unity at 1920 &#215; 1080. Tap the image for the original PNG. Lighting variants are curated art presets, not a running day/night or weather system.</figcaption></figure>
+<figure class="image-frame"><a href="images/ridge-full.png?v=4"><img src="images/ridge.jpg?v=4" width="1280" height="720" alt="A wide coastal panorama with mixed tree silhouettes and distant mist." fetchpriority="high"></a><figcaption>Captured in Unity at 1920 &#215; 1080. Tap the image for the original PNG. Lighting variants are curated art presets, not a running day/night or weather system.</figcaption></figure>
 <nav class="view-nav" aria-label="Screenshot navigation"><a href="coast.html">&#8592; Where the meadow meets water</a><a class="next" href="dawn.html">Cool morning mist &#8594;</a></nav></main>
 <footer class="wrap footer">SURVIVAL <span>In-engine development captures</span></footer></body></html>
